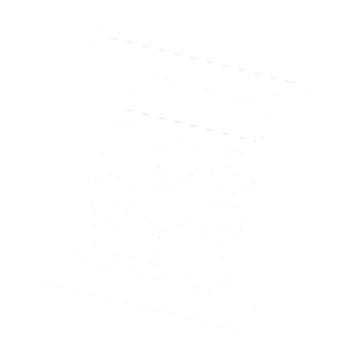
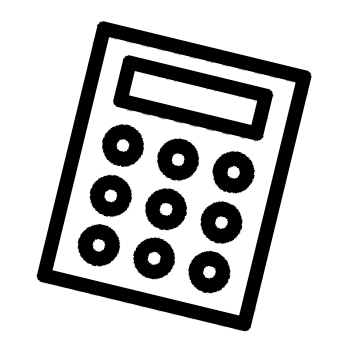
Modified web style (text with shadows, box design, etc.) and made calculators page

Changed region(s): [[0.0875, 0.0616, 0.9038, 0.9244]]

diff --git a/client/src/pages/HomePage.tsx b/client/src/pages/HomePage.tsx
@@ -1,12 +1,10 @@
 import Header from "../components/Header"
 import Box from "../components/HomePage/Box";
 import firebase from '../firebase.tsx';
-import Background from "../components/Background";
-//
+
 import { Link, Navigate } from "react-router-dom"
 
 import { getAuth, signOut } from 'firebase/auth';
-import { useEffect, useState } from "react";
 
 const auth = getAuth(firebase);
 
@@ -29,13 +27,12 @@ function HomePage(props: Props) {
         <>
             <div className="w-screen absolute text-center bg-repeat-y">
                 <Header />
-                {props.signedIn ? <button onClick={handleSignOut} className="text-white">Sign out for {auth.currentUser?.displayName}</button> : ""}
-                <h1 className="mt-28 text-7xl bg-gradient-to-r from-blue-400 via-gray-50 to-blue-400 w-max m-auto text-transparent bg-clip-text font-bold">Welcome{isFirstTime ? "" : " back"}!</h1>
+                <h1 className="mt-28 text-7xl bg-gradient-to-r from-blue-400 via-gray-50 to-blue-400 w-max m-auto text-transparent bg-clip-text font-bold drop-shadow-[0_6.2px_6.2px_rgba(0,0,0,0.8)]">Welcome{isFirstTime ? "" : " back"}!</h1>
                 <p className="mt-10 m-auto text-white font-medium">What would you like to choose?</p>
                 <div className="flex flex-wrap mt-20 mx-auto space-x-20 justify-center">
-                    <Box link="/calculators" img="test_calculator_picture.png" header="Calculators" text="Choose from our wide variety of calculators???" />
-                    <Box link="/whiteboard" img="test_whiteboard_picture.png" header="Whiteboard" text="Write down all your calculations while still having any calculator on the board??" />
-                    <Box link="/groups" img="test_groups_picture.png" header="Groups" text="Make a group with your colleagues and work on the same board!" />
+                    <Box link="/calculators" img="test_calculator_picture.png" header="Calculators" text="Choose from our wide variety of calculators" />
+                    <Box link="/whiteboard" img="test_whiteboard_picture.png" header="Whiteboard" text="Write down anything you need while still having any calculator on the board" />
+                    <Box link="/groups" img="test_groups_picture.png" header="Groups" text="Make a group with your colleagues and work on the same board" />
                 </div>
 
             </div>

diff --git a/client/src/components/HomePage/Box.tsx b/client/src/components/HomePage/Box.tsx
@@ -14,12 +14,12 @@ function Box(props: Props){
         navigate(props.link);
     }
     return(
-        <div onClick={handleClick} className="cursor-pointer select-none bg-blue-400 w-1/5 rounded-lg bg-opacity-20 border-2 border-white border-opacity-0 hover:border-opacity-100 pb-3 px-3 transition-transform hover:scale-105 duration-300">
+        <div onClick={handleClick} className="cursor-pointer select-none bg-blue-400 w-1/5 rounded-lg bg-opacity-20 border-2 border-white border-opacity-0 hover:border-opacity-100 pb-3 px-3 transition-transform hover:scale-105 duration-300 hover:drop-shadow-[0_8.2px_8.2px_rgb(55,65,81)]">
             <div className="flex flex-row py-2 border-b-2 border-white">
-                <img className="ml-3 my-auto h-10 w-10" src={props.img} />
-                <h2 className="text-white my-auto mx-3">{props.header}</h2>
+                <img className="ml-3 my-auto h-10 w-10 invert" src={props.img} />
+                <h2 className="text-white my-auto mx-3 font-bold drop-shadow-[0_2.2px_2.2px_rgba(0,0,0,0.8)]">{props.header}</h2>
             </div>
-            <p className="text-white mt-2 text-left">{props.text}</p>
+            <p className="text-white mt-2 text-left mx-3">{props.text}</p>
         </div>
     )
 }

diff --git a/client/src/pages/CalculatorsPage.tsx b/client/src/pages/CalculatorsPage.tsx
@@ -1,0 +1,24 @@
+import Header from "../components/Header"
+import Box from "../components/HomePage/Box";
+
+
+function CalculatorsPage() {
+
+    return (
+        <>
+            <div className="w-screen absolute text-center bg-repeat-y">
+                <Header />
+                <h1 className="mt-28 text-7xl bg-gradient-to-r text-white w-max m-auto text-transparent bg-clip-text font-bold drop-shadow-[0_6.2px_6.2px_rgba(0,0,0,0.8)]" >Calculators</h1>
+                <p className="mt-10 m-auto text-white font-medium">Choose from our wide variety of calculators</p>
+                <div className="flex flex-wrap mt-20 mx-auto space-x-20 justify-center">
+                    <Box link="/standard-calculator" img="standard_calculator_picture.svg" header="Standard Calculator" text="Do simple calculations" />
+                    <Box link="/scientific-calculator" img="scientific_calculator_picture.svg" header="Scientific Calculator" text="Try out some advanced calculations" />
+                    <Box link="/graphing-calculator" img="graphing_calculator_picture.svg" header="Graphing Calculator" text="Draw any function you need" />
+                </div>
+
+            </div>
+        </>
+    )
+}
+
+export default CalculatorsPage

diff --git a/client/src/App.tsx b/client/src/App.tsx
@@ -10,6 +10,7 @@ import { getAuth, onAuthStateChanged } from 'firebase/auth'
 import { useEffect, useState } from 'react'
 import firebase from './firebase.tsx'
 import Background from './components/Background.tsx'
+import CalculatorsPage from './pages/CalculatorsPage.tsx'
 
 const auth = getAuth(firebase);
 
@@ -40,7 +41,8 @@ function App() {
           <Route path="/login" element={<LoginPage signedIn={signedIn} />} />
           <Route path="/home" element={<HomePage signedIn={signedIn} />} />
           <Route path="/whiteboard" element={<WhiteBoard />} />
-          <Route path="/GraphingCalculator" element={<GraphingCalculators />} />
+          <Route path="/calculators" element={<CalculatorsPage />} />
+          <Route path="/graphing-calculator" element={<GraphingCalculators />} />
         </Routes>
       </BrowserRouter>
     </>

diff --git a/client/src/pages/LandingPage.tsx b/client/src/pages/LandingPage.tsx
@@ -5,7 +5,7 @@ function LandingPage() {
         <>
             <div className="h-screen w-screen absolute">
                 <div className="ml-40 border-l-4 pl-5">
-                    <h1 className="mt-28 text-8xl bg-gradient-to-r from-blue-400 via-gray-50 to-blue-400 w-max text-transparent bg-clip-text font-bold">SilkeBoard</h1>
+                    <h1 className="mt-28 text-8xl bg-gradient-to-r from-blue-400 via-gray-50 to-blue-400 w-max text-transparent bg-clip-text font-bold drop-shadow-[0_6.2px_6.2px_rgba(0,0,0,0.8)]">SilkeBoard</h1>
                     <p className="mt-10 m-auto text-white font-medium text-2xl">The best collaboration platform when numbers are king</p>
                 </div>
                 <div className="flex flex-row space-x-10 mt-32 ml-52 text-white">
